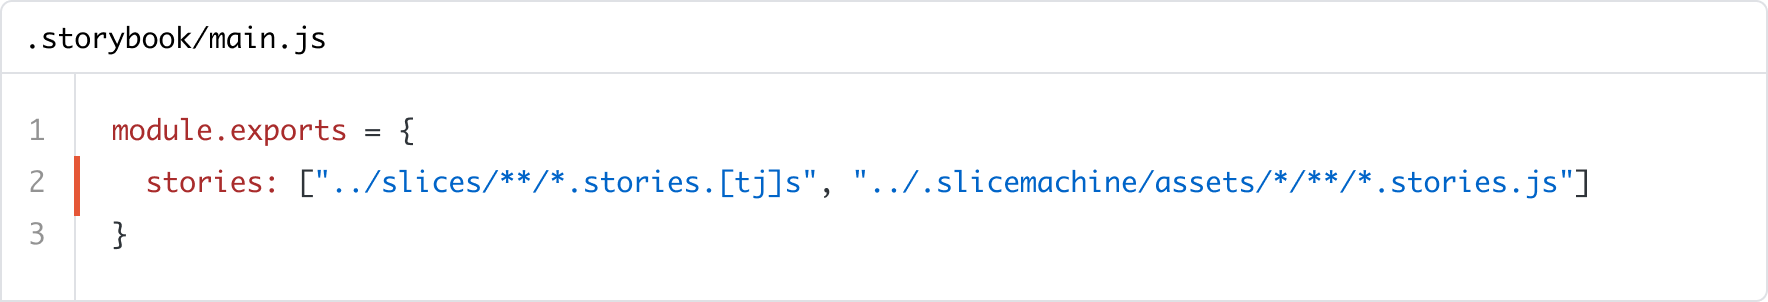
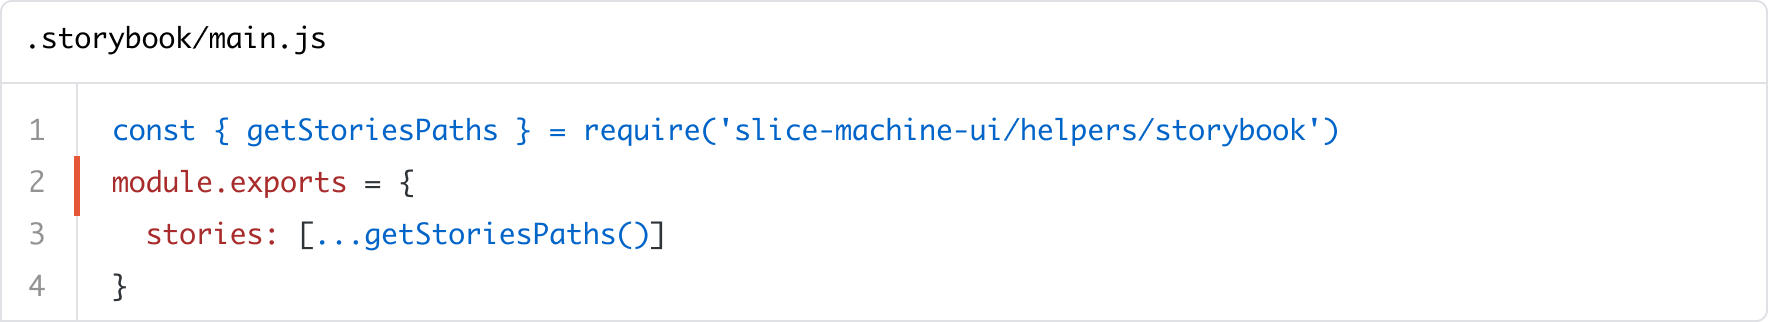
feat(sm-ui): use storiesPaths helper in storybook

diff --git a/packages/slice-machine/components/UnrecoverableErrors/index.js b/packages/slice-machine/components/UnrecoverableErrors/index.js
@@ -25,32 +25,39 @@ export const NoLibraryConfigured = () => (
   </FullPage>
 )
 
-/**
- * To make your project work with the new builder, you must update your config file.This is because Slice stories have moved from ~/slices/
- to~/.slicemachine/assets / slices / .We have already moved your files
- for you, but you must update your Storybook options in nuxt.config.js before proceeding:
- */
-
-const Code = ({ children }) =>(
+const Code = ({ children }) => (
   <Text variant="styles.inlineCode" sx={{ fontSize:'16px' }}>
     { children }
   </Text>
+)
+
+const Pre = ({ children }) => (
+  <pre style={{ fontSize: '15px', background: '#F1F1F1' }}>
+    { children }
+  </pre>
 )
 
 export const LacksStorybookConf = ({ env }) => (
   <FullPage>
     <div style={{ maxWidth: '850px', textAlign:'center', color:'#25252D' }}>
       <img src="/logo.png" width="40px" />
-      <h2>Welcome to the new <br/>
-        custom type builder 🎉🎉 </h2>
+      <h2>Welcome to the new 
+        Prismic studio 🎉🎉 </h2>
       <Text as="p" style={{ lineHeight: '30px', fontSize: '18px'}}>
-        To make your project work with the new builder, you must update your config file.
-        This is because Slice stories have moved from <Code>{'~/slices/...'}</Code> to <Code>{'~/.slicemachine/assets/slices/**/*.stories.js'}</Code>.
+        To make your project work with the new builder, you must update your Storybook config file.
+        This is because Slice stories have moved from <Code>{'~/[your-lib]/...'}</Code> to <Code>{'~/.slicemachine/assets'}</Code>.
         <br/><br/>
-        We have already moved your files for you,
-        but you must update your Storybook options in <Code>{ env.framework == "nuxt" ? 'nuxt.config.js' : '.storybook/main.js' }</Code>
+        We have already moved your files for you, but you must update your Storybook options.
       </Text>
-      <br /><br />
+      <h4 style={{ marginBottom: '16px'}}>1. Import the helper</h4>
+      <Text>
+        Open <Code>{ env.framework == "nuxt" ? 'nuxt.config.js' : '.storybook/main.js' }</Code> and add:
+        <Pre>{`const { getStoriesPaths } = require('slice-machine-ui/helpers/storybook')`}</Pre>
+      </Text>
+      <h4 style={{ marginBottom: '16px'}}>2. Use the function in stories array</h4>
+      <Text>
+        <Pre>{`stories: [...getStoriesPaths(), /*...*/]`}</Pre>
+      </Text>
       {env.framework == "nuxt" ? <img src="/nuxt-storybook.png" /> : <img src="/next-storybook.png" />}
     </div>
   </FullPage>

diff --git a/packages/slice-machine/lib/env/index.ts b/packages/slice-machine/lib/env/index.ts
@@ -81,7 +81,7 @@ function createChromaticUrls({ branch, appId, err }: { branch?: string, appId?: 
 function parseStorybookConfiguration(cwd: string) {
   const pathsToFile = [path.join(cwd, '.storybook/main.js'), path.join(cwd, 'nuxt.config.js')]
   const f = Files.readFirstOf(pathsToFile)(v => v)
-  return (f?.value as string).includes('.slicemachine/assets')
+  return (f?.value as string).includes('getStoriesPaths')
 }
 
 export async function getEnv(): Promise<{ errors?: {[errorKey: string]: ServerError }, env: Environment }> {

diff --git a/packages/slice-machine/tests/project/.storybook/main.js b/packages/slice-machine/tests/project/.storybook/main.js
@@ -1,9 +1,8 @@
 const { getStoriesPaths } = require('../../../helpers/storybook')
 
+
 module.exports = {
-  "stories": [
-    ...getStoriesPaths()
-  ],
+  "stories": [...getStoriesPaths()],
   "addons": [
     "@storybook/addon-links",
     "@storybook/addon-essentials",
